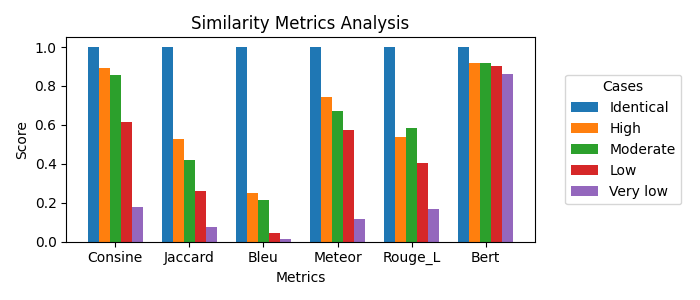
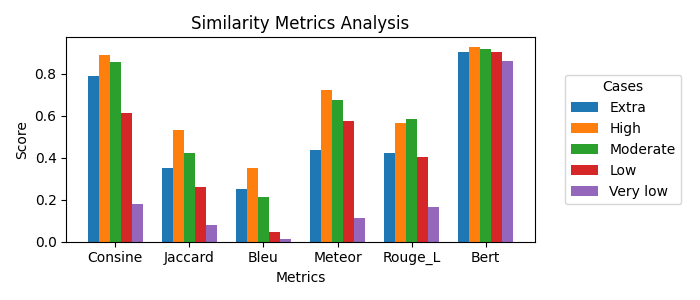
Plot metrics 'extra' add

diff --git a/results/scripts/plot_metric_valid.py b/results/scripts/plot_metric_valid.py
@@ -12,11 +12,12 @@ def generate_metrics():
 
     # Define test cases and their expected similarity levels
     test_cases = {
-        "Identical": [
-            (ground_truth, ground_truth),
+        "Extra": [
+            ("A pedestrian raises their hand towards the ego driver hand to stop traffic. They are looking scared and in need of help.", ground_truth),
+            ("A person puts their hand towards the ego driver to signal 'stop'. They are wearing a red t-shirt and blue pants.", ground_truth),
         ],
         "High": [
-            ("A pedestrian raises their towards the ego driver hand to stop traffic.", ground_truth),
+            ("A pedestrian raises their hand towards the ego driver hand to stop traffic.", ground_truth),
             ("A person puts their hand towards the ego driver to signal 'stop'.", ground_truth),
         ],
         "Moderate": [
@@ -42,7 +43,7 @@ def generate_metrics():
     data = {case: [] for case in case_labels}
 
     # Compute similarity scores for each case category
-    for case, pairs in tqdm(test_cases.items(), desc="Proc. cases"):
+    for case, pairs in tqdm(test_cases.items(), desc="Valid. cases"):
         scores = np.zeros(len(metric_labels))  # Initialize with zeros
         for pred, gt in pairs:
             if pred and gt:
@@ -86,14 +87,13 @@ def plot_data(data):
 
 
 if __name__ == "__main__":
+    
     import argparse
     
     # Parse arguments
     parser = argparse.ArgumentParser(description="Plot similarity metrics")
-    args = parser.parse_args()
     parser.add_argument("--compute", action="store_true", help="Compute similarity metrics")
     parser.add_argument("--plot",    action="store_true", help="Plot similarity metrics")
-    
     args = parser.parse_args()
     
     # Generate similarity metrics
@@ -102,14 +102,17 @@ if __name__ == "__main__":
         # Print the dictionary
         for key, value in data.items():
             print(f"'{key}': {list(value)},")
+        plot_data(data)
     
-    elif args.plot:
+    if args.plot:
         # Hardcoded true values (to avoid recomputing)
         data = {
-            'Identical': [0.9999998807907104, 1.0, 1.0, 0.9998779296875, 1.0, 1.0],
-            'High': [0.8912810385227203, 0.5294117647058824, 0.24841392812956903, 0.7420243490624723, 0.5357142857142857, 0.9206320345401764],  
+            'Extra': [0.7876492142677307, 0.35307692307692307, 0.24866457429451366, 0.43482214230499455, 0.42105263157894735, 0.9017977714538574],
+            'High': [0.8864899575710297, 0.5294117647058824, 0.34943738383619805, 0.7211051154946817, 0.562807881773399, 0.9262003004550934],
             'Moderate': [0.8548151850700378, 0.42083333333333334, 0.21442117372545666, 0.6724773242630386, 0.5833333333333334, 0.9169631004333496],
-            'Low': [0.6131544411182404, 0.25980392156862747, 0.04497292511802876, 0.5752507188442387, 0.4024242424242425, 0.9014791448911031],  
+            'Low': [0.6131544411182404, 0.25980392156862747, 0.04497292511802876, 0.5752507188442387, 0.4024242424242425, 0.9014791448911031],
             'Very low': [0.17858769744634628, 0.07763157894736841, 0.013464374971060651, 0.11483753099308364, 0.16695652173913045, 0.861847311258316],
         }
         plot_data(data)
+    
+    

diff --git a/results/scripts/plot_metrics.py b/results/scripts/plot_metrics.py
@@ -52,20 +52,22 @@ def plot_metrics(metrics_folder, prompt_types=False, gestures=False):
     # Only keep cos, Jaccard, Bleu, and meteor
     merged_df = merged_df[merged_df["Metric"].isin(["Cosine", "Jaccard", "Bleu", "Meteor"])]
     
-    # Boxplot: Group by metric, color by model
+    # Boxplot: Group by prompt type, color by model
     if prompt_types:
         cosine_df = merged_df[merged_df["Metric"] == "Cosine"]
         sns.boxplot(x="prompt_type", y="Score", hue="Model", data=cosine_df, showfliers=False, width=0.9)
         plt.xlabel("Prompt Type")
         plt.title("Cosine Similarity Scores Across Prompt Type")
-        
+    
+    # Boxplot: Group by gesture, color by model
     elif gestures:
         cosine_df = merged_df[merged_df["Metric"] == "Cosine"]
         sns.boxplot(x="video_name", y="Score", hue="Model", data=cosine_df, showfliers=False, width=0.9)
         plt.xticks(rotation=45//2)
         plt.xlabel("Gesture")
         plt.title("Cosine Similarity Scores Across Gestures")
-        
+    
+    # Boxplot: Group by metric, color by model
     else:
         sns.boxplot(x="Metric", y="Score", hue="Model", data=merged_df, showfliers=False, width=0.9)
         plt.xlabel("Metrics")
